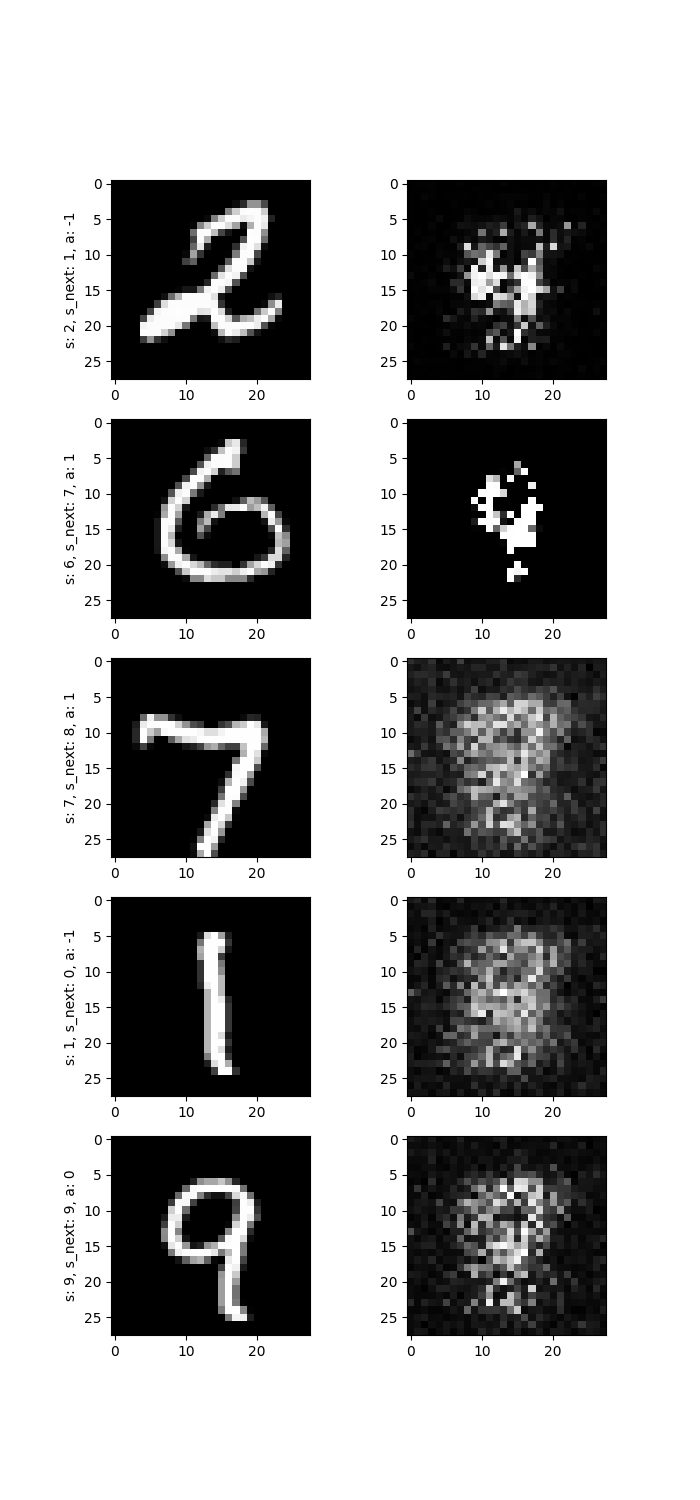
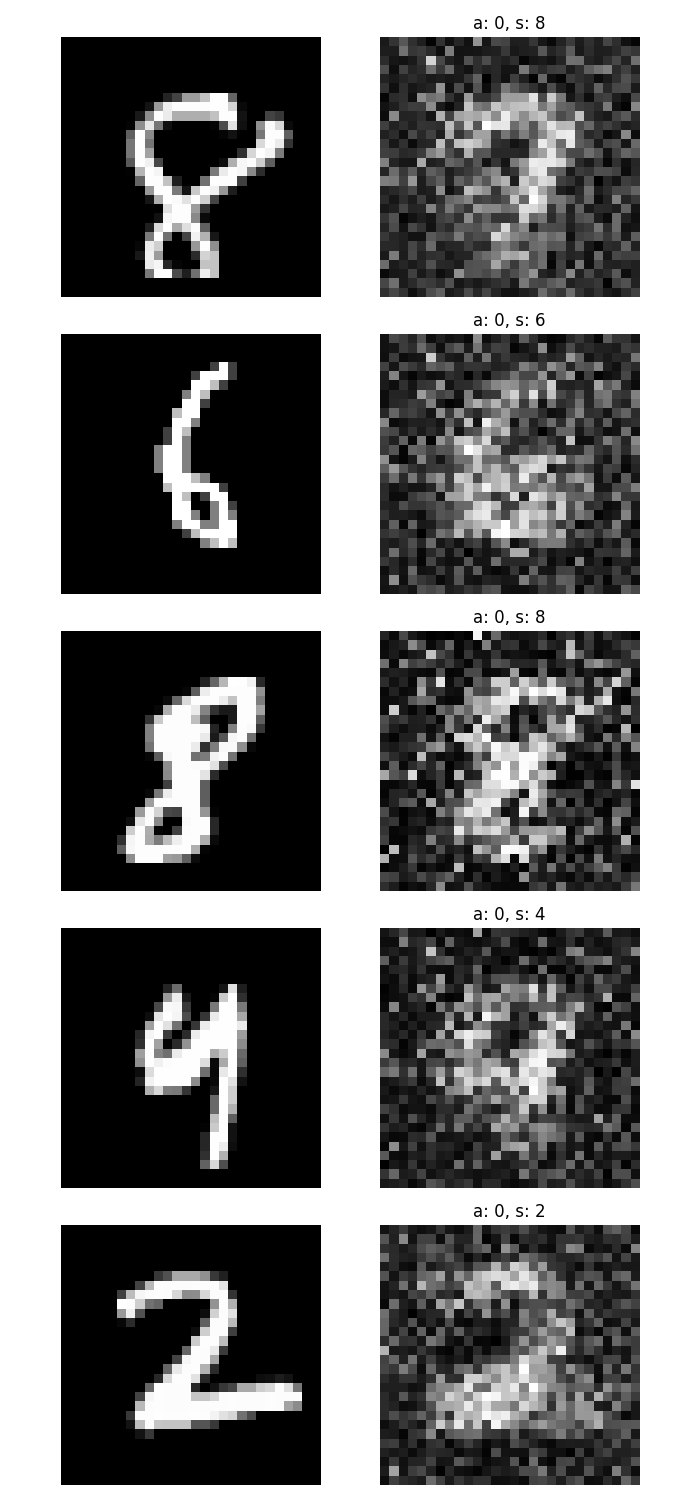
Add PCA hidden visualizations, update main.py and figures (6 epochs)

diff --git a/main.py b/main.py
@@ -15,7 +15,11 @@ from torchvision.utils import make_grid, save_image
 import os
 
 os.makedirs("figures", exist_ok=True)
-os.makedirs("figures/samples", exist_ok=True)
+import shutil
+for subdir in ["samples", "pca"]:
+    if os.path.exists(f"figures/{subdir}"):
+        shutil.rmtree(f"figures/{subdir}")
+    os.makedirs(f"figures/{subdir}", exist_ok=True)
 os.makedirs("data", exist_ok=True)
 
 
@@ -81,13 +85,23 @@ class Generator(nn.Module):
         super().__init__()
 
         self.encoder = nn.Sequential(
-            nn.Linear(out_dim + 1, 1024),
+            nn.Linear(out_dim, 1024),
             nn.BatchNorm1d(1024),
             nn.ReLU(True),
 
-            nn.Linear(1024, 512),
+            # nn.Linear(1024, 1024),
+            # nn.BatchNorm1d(1024),
+            # nn.ReLU(True),
+        )
+
+        self.action_encoder = nn.Sequential(
+            nn.Linear(1024+1, 512),
             nn.BatchNorm1d(512),
             nn.ReLU(True),
+
+            # nn.Linear(512, 512),
+            # nn.BatchNorm1d(512),
+            # nn.ReLU(True),
         )
 
         self.decoder = nn.Sequential(
@@ -95,30 +109,31 @@ class Generator(nn.Module):
             nn.BatchNorm1d(1024),
             nn.ReLU(True),
 
+            # nn.Linear(1024, 1024),
+            # nn.BatchNorm1d(1024),
+            # nn.ReLU(True),
+
             nn.Linear(1024, out_dim),
             nn.Tanh()
         )
 
     def forward(self, image, action):
-        z = self.encoder(torch.cat([image, action], dim=1))
+        z = self.encoder(image)
+        z = self.action_encoder(torch.cat([z, action], dim=1))
         out = self.decoder(z)
-        return out
+        return out, z
 
 class Discriminator(nn.Module):
     def __init__(self, in_dim):
         super().__init__()
         self.net = nn.Sequential(
-            nn.Linear(in_dim, 1024),
+            nn.Linear(in_dim, 512),
             nn.LeakyReLU(0.2, inplace=True),
-            nn.Dropout(0.3),
-
-            nn.Linear(1024, 512),
-            nn.LeakyReLU(0.2, inplace=True),
-            nn.Dropout(0.3),
+            # nn.Dropout(0.3),
 
             nn.Linear(512, 256),
             nn.LeakyReLU(0.2, inplace=True),
-            nn.Dropout(0.3),
+            # nn.Dropout(0.3),
 
             nn.Linear(256, 11)  # logits (no sigmoid here)
         )
@@ -133,7 +148,7 @@ if __name__ == "__main__":
         transforms.ToTensor(),
         transforms.Normalize((0.5,), (0.5,))
     ])
-    dataset = MNISTActionDataset(A=1, transform=transform)
+    dataset = MNISTActionDataset(A=0, transform=transform)
     image, label, target_image, target_label, action = dataset[0]
 
     fig, axs = plt.subplots(1, 2, figsize=(7, 3))
@@ -150,17 +165,22 @@ if __name__ == "__main__":
     # Loss + Optimizers
     # ----------------------------
     lr = 0.0002
-    epochs = 50
-    batch_size = 64
+    epochs = 20
+    batch_size = 128
+    lambda_pixel = 0.1 # Hyperparameter to balance GAN vs Reconstruction
 
     criterion = nn.CrossEntropyLoss()
+    L1_criterion = nn.L1Loss()
+    
     opt_G = optim.Adam(G.parameters(), lr=lr)
-    opt_D = optim.Adam(D.parameters(), lr=lr)
+    opt_D = optim.Adam(D.parameters(), lr=lr/2)
 
     train_loader = DataLoader(dataset, batch_size=batch_size, shuffle=True)
 
     loss_D_l = []
     loss_G_l = []
+    hidden_l = []
+    target_label_l = []
     for epoch in range(1, epochs + 1):
         loss_D_epoch = 0
         loss_G_epoch = 0
@@ -174,15 +194,15 @@ if __name__ == "__main__":
             # ------------------------
             # Train Discriminator
             # ------------------------
-            fake_imgs = G(real_imgs, actions.unsqueeze(1)).detach()  # detach so G isn't updated here
+            fake_imgs, _ = G(real_imgs, actions.unsqueeze(1))  # detach so G isn't updated here
 
             real_labels = target_labels
             fake_labels = torch.zeros(len(real_labels), device=device).long() + 10
 
-            D_real_logits = D(real_imgs)
-            D_fake_logits = D(fake_imgs)
+            D_real_logits = D(target_imgs)
+            D_fake_logits = D(fake_imgs.detach())
 
-            loss_D_real = criterion(D_real_logits, real_labels)
+            loss_D_real = criterion(D_real_logits, target_labels)
             loss_D_fake = criterion(D_fake_logits, fake_labels)
             loss_D = (loss_D_real + loss_D_fake) / 2
 
@@ -193,10 +213,16 @@ if __name__ == "__main__":
             # ------------------------
             # Train Generator
             # ------------------------
-            gen_imgs = G(real_imgs, actions.unsqueeze(1))
+            gen_imgs, hidden = G(real_imgs, actions.unsqueeze(1))
             # Want D(gen_imgs) -> "real" (1)
             D_gen_logits = D(gen_imgs)
             loss_G = criterion(D_gen_logits, real_labels)
+
+            # Inside the Generator training block
+            loss_pixel = L1_criterion(gen_imgs, target_imgs) # Force it to match the ground truth target
+
+            # Combine losses
+            total_loss_G = loss_G + (lambda_pixel * loss_pixel)
 
             opt_G.zero_grad()
             loss_G.backward()
@@ -204,13 +230,15 @@ if __name__ == "__main__":
 
             loss_D_epoch += loss_D.item()
             loss_G_epoch += loss_G.item()
+            hidden_l.append(hidden.detach().cpu().numpy())
+            target_label_l.append(target_labels.detach().cpu().numpy())
 
         loss_D_l.append(loss_D_epoch / len(train_loader))
         loss_G_l.append(loss_G_epoch / len(train_loader))
 
         # Save sample grid each epoch
         with torch.no_grad():
-            samples = G(real_imgs, actions.unsqueeze(1)).view(-1, 1, 28, 28)
+            samples = G(real_imgs, actions.unsqueeze(1))[0].view(-1, 1, 28, 28)
             # grid = make_grid(samples, nrow=8, normalize=True, value_range=(-1, 1))
             # save_image(grid, f"figures/samples/mnist_gan_epoch_{epoch:03d}.png")
 
@@ -221,7 +249,37 @@ if __name__ == "__main__":
             axs[0].imshow(real_imgs[i].reshape(28, 28).cpu().numpy(), cmap='gray')
             axs[0].set_ylabel(f's: {labels[i].item()}, s_next: {target_labels[i].item()}, a: {actions[i].item()}')
             im = axs[1].imshow(samples[i].reshape(28, 28).cpu().numpy(), cmap='gray')
+            axs[1].set_title(f'a: {actions[i].item()}, s: {target_labels[i].item()}')
+            axs[0].axis('off')
+            axs[1].axis('off')
+        fig.tight_layout()
         plt.savefig(f"figures/samples/samples_epoch_{epoch:03d}.png")
+        plt.close()
+
+        # INSERT_YOUR_CODE
+        # PCA plot of hidden_l colored by target_label_l
+        import numpy as np
+        import matplotlib.pyplot as plt
+
+        from sklearn.decomposition import PCA
+
+        # Transform lists to numpy arrays for plotting
+        hidden_np = np.concatenate(hidden_l, axis=0)
+        label_np = np.concatenate(target_label_l, axis=0)
+
+        # Run PCA
+        pca = PCA(n_components=2)
+        hidden_pca = pca.fit_transform(hidden_np)
+
+        plt.figure(figsize=(7, 5))
+        scatter = plt.scatter(hidden_pca[:, 0], hidden_pca[:, 1], c=label_np, cmap='coolwarm', alpha=0.7)
+        cbar = plt.colorbar(scatter, ticks=np.unique(label_np))
+        cbar.set_label('Target label')
+        plt.xlabel(f'Component 1 ({100*pca.explained_variance_ratio_[0]:.2f}%)')
+        plt.ylabel(f'Component 2 ({100*pca.explained_variance_ratio_[1]:.2f}%)')
+        plt.title("PCA of Hidden States colored by Target Label")
+        plt.tight_layout()
+        plt.savefig(f"figures/pca/pca_hidden_epoch_{epoch:03d}.png")
         plt.close()
 
 
@@ -243,5 +301,10 @@ if __name__ == "__main__":
         axs[0].imshow(real_imgs[i].reshape(28, 28).cpu().numpy(), cmap='gray')
         axs[0].set_ylabel(f's: {labels[i].item()}, s_next: {target_labels[i].item()}, a: {actions[i].item()}')
         im = axs[1].imshow(samples[i].reshape(28, 28).cpu().numpy(), cmap='gray')
+        axs[1].set_title(f'a: {actions[i].item()}, s: {target_labels[i].item()}')
+        
+        axs[0].axis('off')
+        axs[1].axis('off')
+    fig.tight_layout()
     plt.savefig(f"figures/samples.png")
     plt.show()
